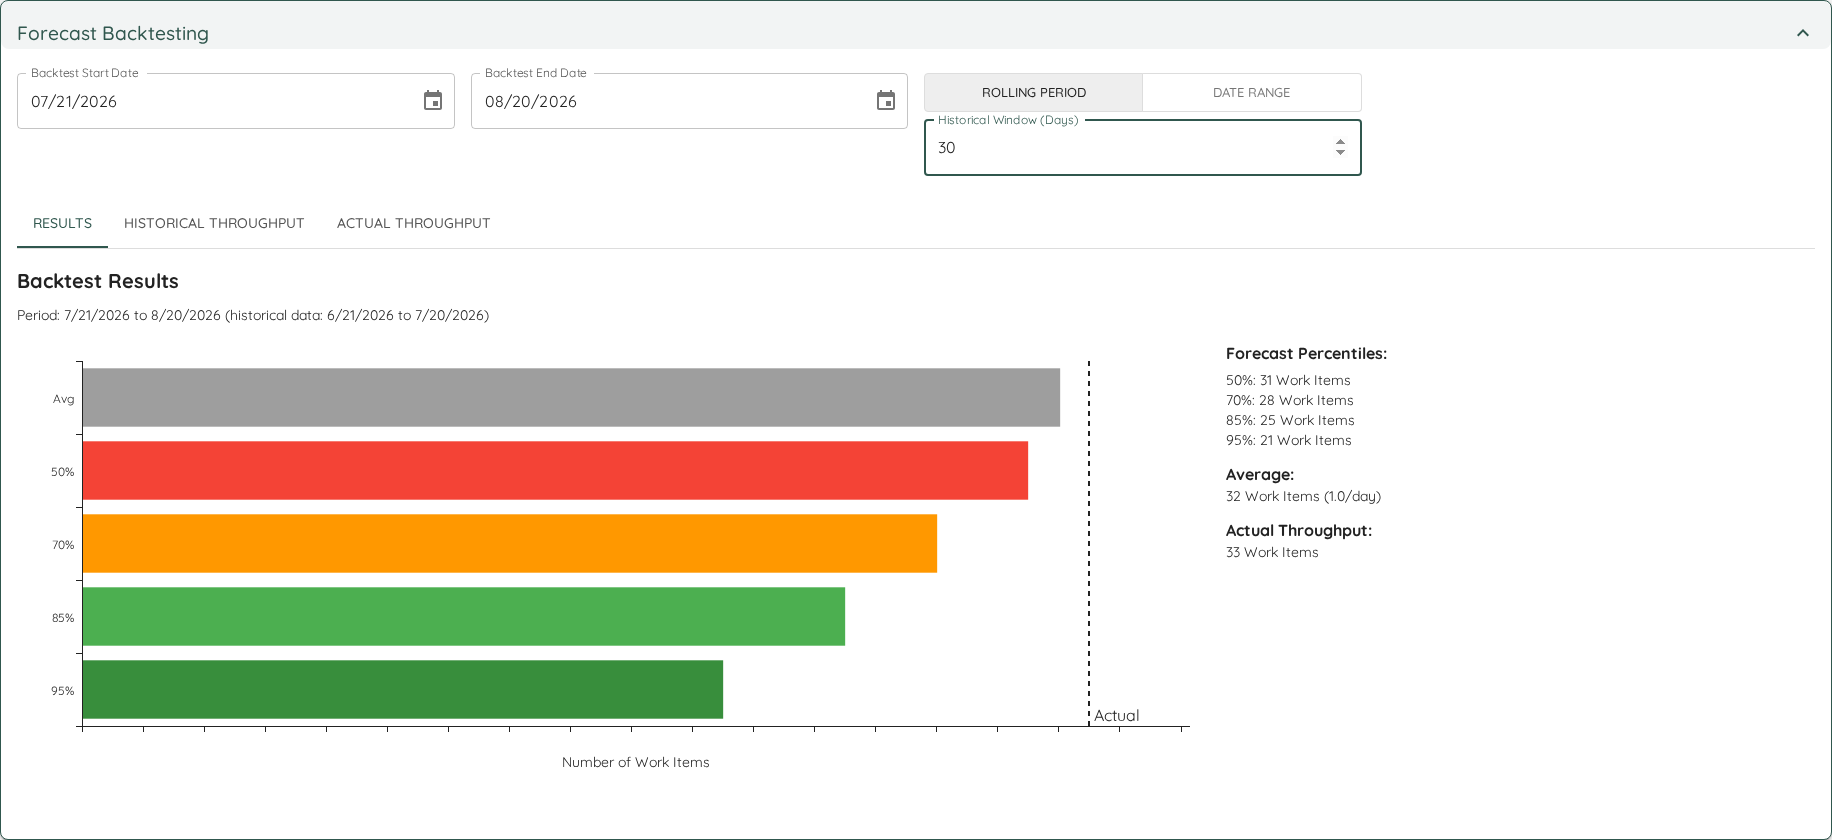
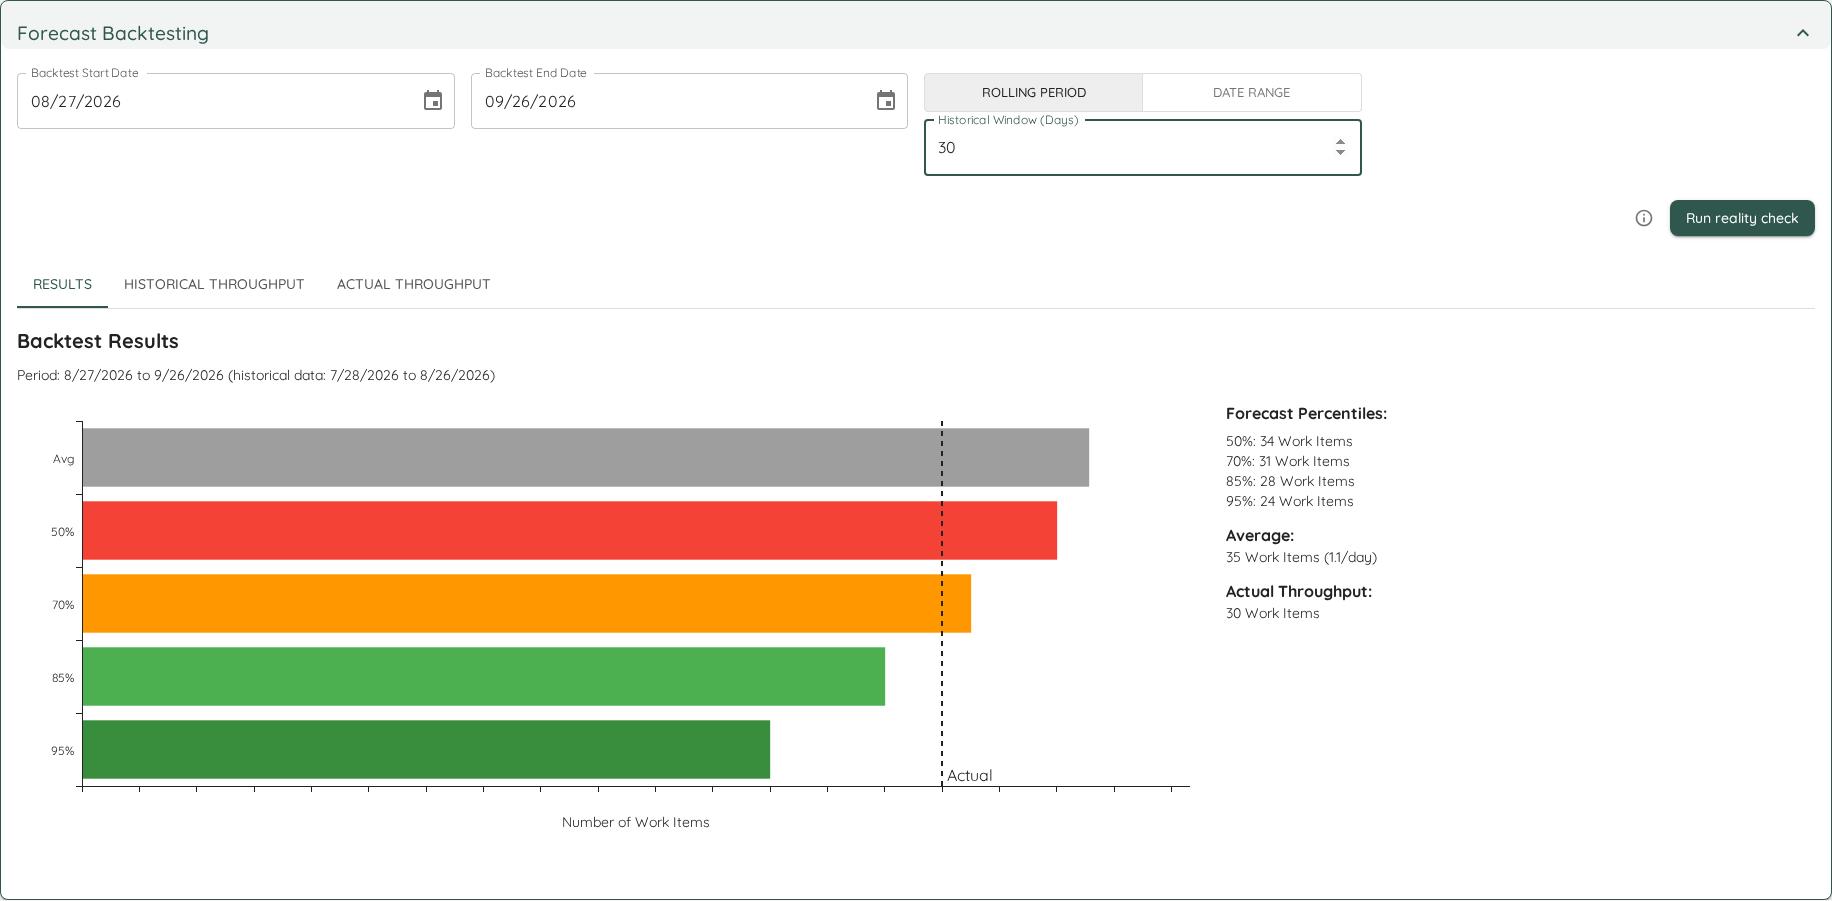
docs(forecast): document the Forecast Reality Check on the Team page (epic 4172)
The Team detail page gains a Forecast Reality Check section: what the check
replays (horizons of 1, 2, 4 and 8 weeks ending today, sampling windows of
14/30/60/90 days plus the Team's own), how to read the headline, the window
badge, the per-level rows and the graded table, and when to use it.

The existing team-forecasts screenshot test now also opens the reality check
and captures its dialog as features/realitycheck.png. backtest.png and
teamdetail.png are regenerated because the trigger now sits under the
backtest inputs.

Claude-Session: https://claude.ai/code/session_0122yYu5w7pZCzJGFPXWKjPg

diff --git a/Lighthouse.EndToEndTests/tests/specs/screenshots/Screenshots.spec.ts b/Lighthouse.EndToEndTests/tests/specs/screenshots/Screenshots.spec.ts
@@ -220,7 +220,7 @@ testWithDemo(
 );
 
 testWithDemo(
-	"Take @screenshot of the team detail forecasts and backtest",
+	"Take @screenshot of the team detail forecasts, backtest and reality check",
 	async ({ testData, overviewPage }) => {
 		await overviewPage.lightHousePage.goToOverview();
 		const teamDetailPage = await overviewPage.goToTeam(testData.teams[0].name);
@@ -244,6 +244,16 @@ testWithDemo(
 			teamDetailPage.backtestForecastingSection.locator("../../.."),
 			"features/backtest.png",
 		);
+
+		await teamDetailPage.runRealityCheck();
+		await expect(teamDetailPage.realityCheckHeadline).toBeVisible();
+		await takeDialogScreenshot(
+			teamDetailPage.realityCheckDialog,
+			"features/realitycheck.png",
+			0.5,
+			1000,
+		);
+		await teamDetailPage.closeRealityCheckWithEscape();
 	},
 );
 

diff --git a/docs/teams/detail.md b/docs/teams/detail.md
@@ -141,3 +141,32 @@ This lets you see whether the actual outcome fell within the forecasted range, g
 
 ### Historical Throughput
 The **Historical Throughput** tab shows the throughput run chart for the historical window used by the backtest, along with its Predictability Score. This helps you understand the input data that drove the simulation.
+## Forecast Reality Check
+A single backtest answers "would this one forecast have held?". The **Forecast Reality Check** answers the bigger question: *how often do this Team's forecasts hold, and is its sampling window a good one?* Press **Run reality check** below the backtest inputs. The info icon beside it explains what the check does.
+
+![Forecast Reality Check](../assets/features/realitycheck.png)
+
+### What it checks
+Lighthouse replays many forecasts at once. Each *scenario* takes a recent period that ends today, forecasts it from one sampling window of the history before that period, and compares the result with the Work Items the Team actually completed.
+
+- **Forecast horizons**: 1, 2, 4 and 8 weeks.
+- **Sampling windows**: 14, 30, 60 and 90 days, plus your Team's own [Throughput History](./edit.html#throughput-history) setting if it is not one of those.
+- **Confidence levels**: every scenario is read at all four levels (50th, 70th, 85th and 95th).
+
+A window that doesn't have enough history to forecast from (fewer than 5 days with completed Work Items) is left out of every count and marked as such, so the numbers never include a forecast that couldn't really have been made.
+
+{: .note}
+The check is read-only. It changes nothing about your Team, and it doesn't pick a "best" window: each scenario covers a different real period, so they are evidence to read side by side, not a race to win.
+
+### Reading the result
+The dialog starts with a summary:
+- A **headline** saying how many scenarios were backtested and how many forecasts that gives. The info icon next to it explains the numbers and credits the method, Nick Brown's article [The Full Monte](https://medium.com/asos-techblog/the-full-monte-901d721b8532).
+- A **badge for your sampling window**: *fine*, *did not hold up*, or *could not be checked*. A Team that forecasts from [fixed start and end dates](./edit.html#throughput-start-and-end-date) has no sampling window, so its badge says the window was not tested. A window holds up when its 95th forecast held in more than half of the checks that could be run on it.
+- **One row per confidence level**, showing how often that level held (for example *94% (15 of 16)*) against a tick at the rate it should hold at, and how many of its forecasts were **accurate**, meaning within 10% of what was completed.
+
+Below the summary, a table shows every scenario: rows are sampling windows grouped by forecast horizon, and columns are the four confidence levels. Each period's header shows its dates and how many Work Items were actually completed. Each cell shows the forecast with a ✓ (held) or ✗ (missed). Green deepens the closer a forecast landed and red deepens the further it missed. Hover over or focus a cell to see exactly how far off it was.
+
+### When to use it
+- Before relying on forecasts for a commitment, to see whether this Team's history makes them trustworthy.
+- When deciding whether to change the sampling window: if yours didn't hold up while others did, it's worth trying one of those.
+- To show someone *why* a forecast deserves trust, instead of asking them to take the Monte Carlo Simulation on faith.
